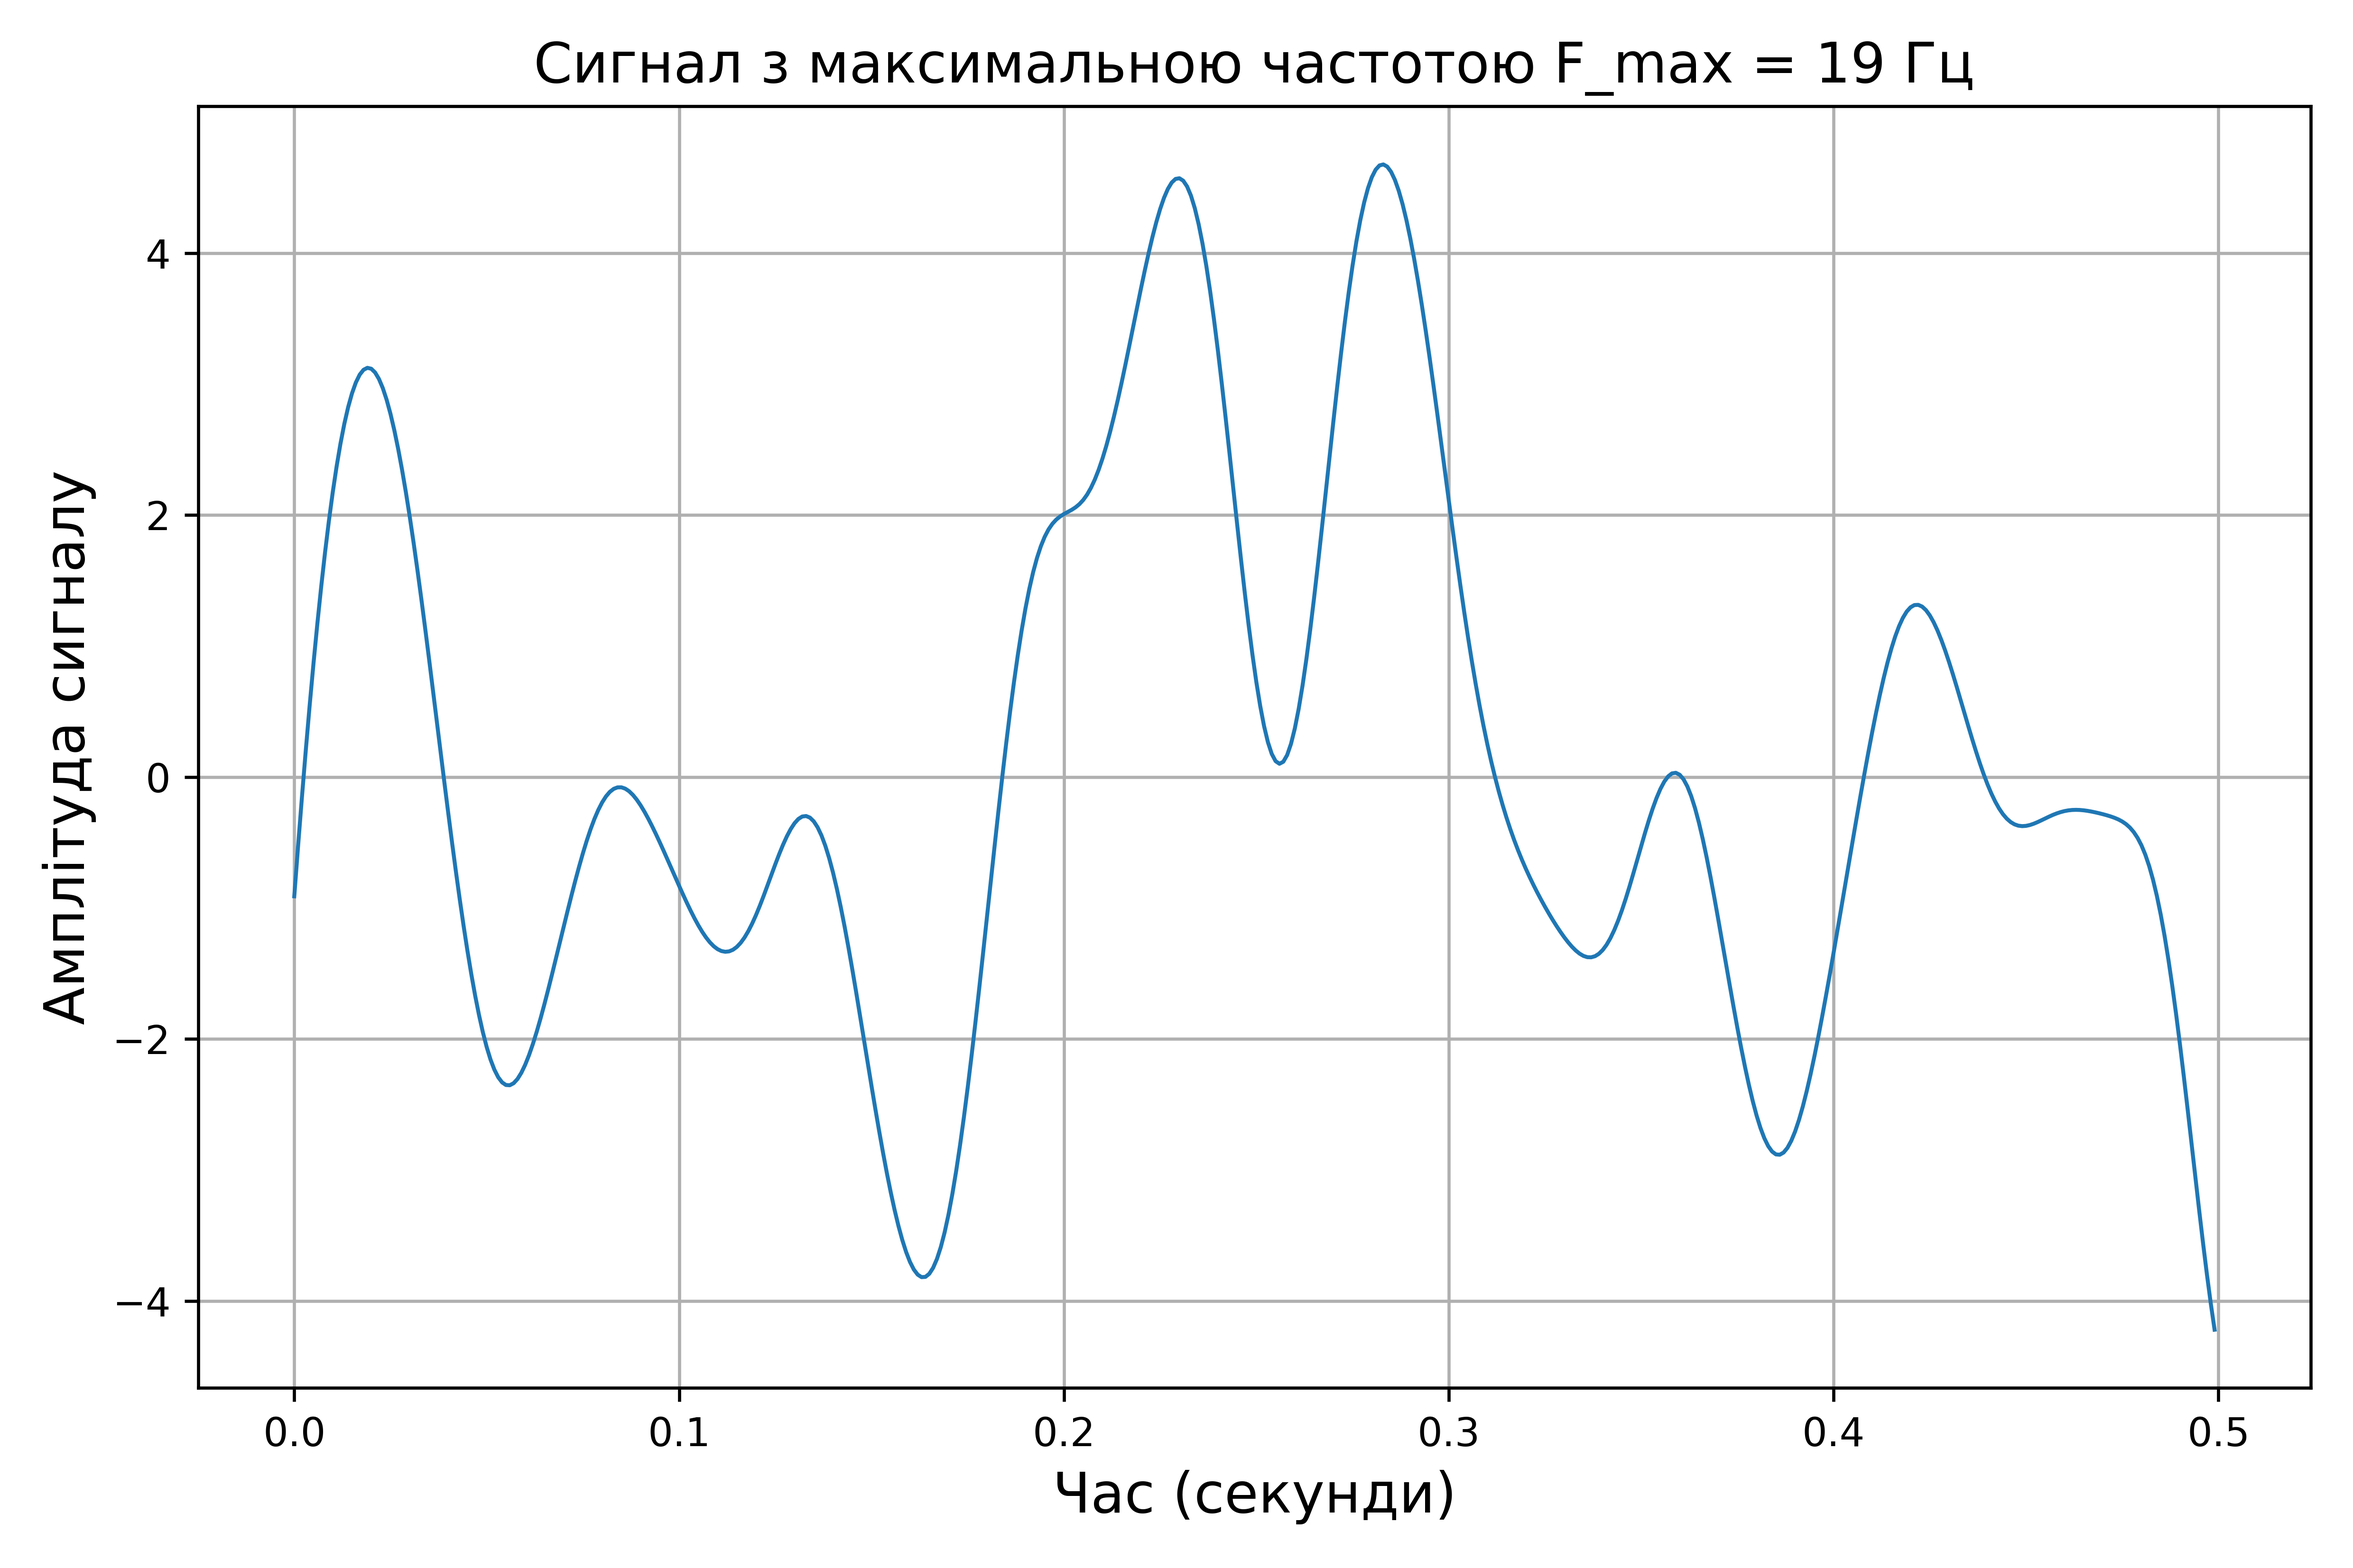
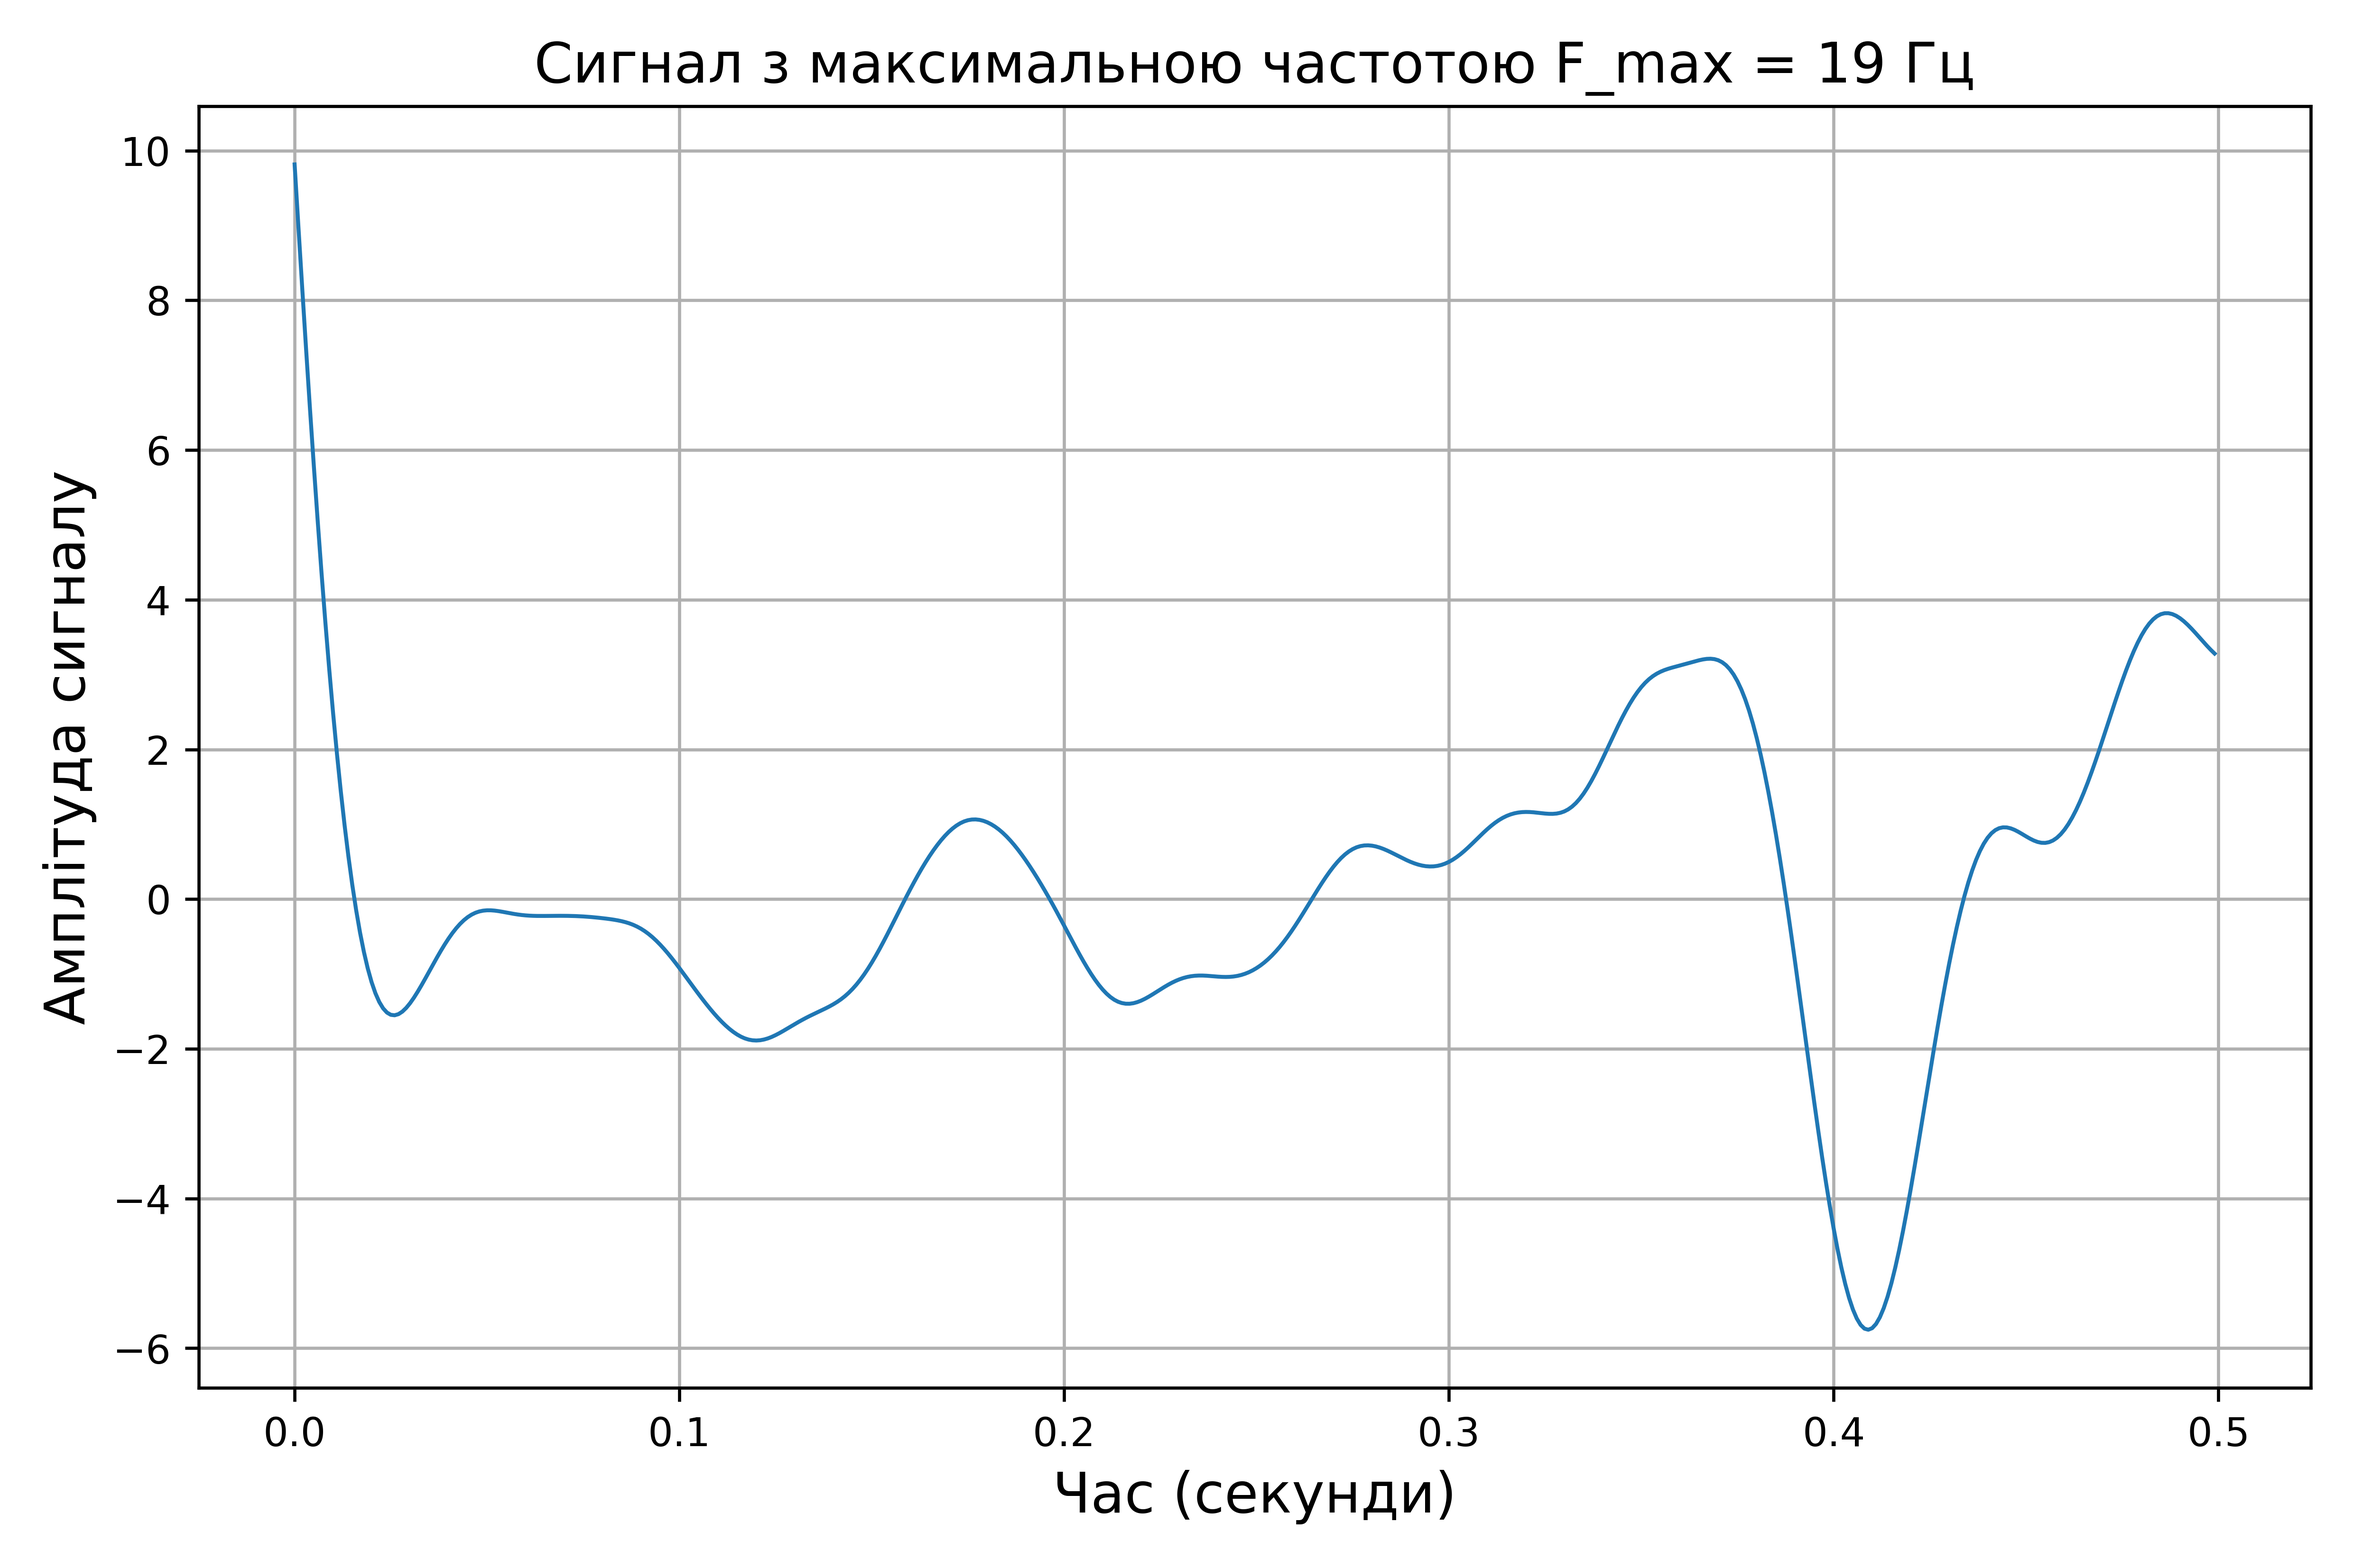
signalprocessing 2-nd  stage

diff --git a/SignalProcessing.py b/SignalProcessing.py
@@ -27,19 +27,39 @@ def plot_graph(x, y, title, xlabel, ylabel, filename):
     plt.show()
 
 
+def plot_subplots(x, y_list, title, xlabel, ylabel, filenamesave, dt_values):
+    fig, ax = plt.subplots(2, 2, figsize=(21 / 2.54, 14 / 2.54))
+    s = 0
+
+    for i in range(2):
+        for j in range(2):
+            ax[i][j].plot(x, y_list[s], linewidth=1)
+            ax[i][j].set_title(f"Dt = {dt_values[s]}", fontsize=14)
+            ax[i][j].grid(True)
+            s += 1
+
+    fig.supxlabel(xlabel, fontsize=14)
+    fig.supylabel(ylabel, fontsize=14)
+    fig.suptitle(title, fontsize=14)
+    fig.tight_layout()
+    fig.savefig(filenamesave, dpi=600)
+    plt.show()
+
+
 if __name__ == "__main__":
-    # Вариант 9
+    # Варіант 9
     n = 500
     Fs = 1000
     F_max = 19
+    F_filter = 26
+    Dt_values = [2, 4, 8, 16]
 
     if not os.path.exists("figures"):
         os.makedirs("figures")
 
-    # Генерация и фильтрация сигнала
+    # ---------------- ПР2: генерація сигналу ----------------
     time_values, filtered_signal = generate_signal(n, F_max, Fs)
 
-    # График сигнала
     plot_graph(
         time_values,
         filtered_signal,
@@ -49,15 +69,11 @@ if __name__ == "__main__":
         f"./figures/Сигнал_Fmax_{F_max}Гц.png"
     )
 
-    # Расчет спектра
     spectrum = fft.fft(filtered_signal)
     spectrum_abs = np.abs(fft.fftshift(spectrum))
-
-    # Частотная ось
     freq = fft.fftfreq(n, d=1 / Fs)
     freq_shifted = fft.fftshift(freq)
 
-    # График спектра
     plot_graph(
         freq_shifted,
         spectrum_abs,
@@ -65,4 +81,93 @@ if __name__ == "__main__":
         "Частота (Гц)",
         "Амплітуда спектру",
         f"./figures/Спектр_Fmax_{F_max}Гц.png"
+    )
+
+    # ---------------- ПР3 ----------------
+    discrete_signals = []
+    discrete_spectrums = []
+    restored_signals = []
+    variances = []
+    snr_ratios = []
+
+    for Dt in Dt_values:
+        # Дискретизація сигналу
+        discrete_signal = np.zeros(n)
+
+        for i in range(0, round(n / Dt)):
+            index = i * Dt
+            if index < n:
+                discrete_signal[index] = filtered_signal[index]
+
+        discrete_signals.append(discrete_signal.tolist())
+
+        # Спектр дискретизованого сигналу
+        discrete_spectrum = np.abs(fft.fftshift(fft.fft(discrete_signal)))
+        discrete_spectrums.append(discrete_spectrum.tolist())
+
+        # Відновлення сигналу через ФНЧ
+        w_restore = F_filter / (Fs / 2)
+        restore_filter = signal.butter(3, w_restore, 'low', output='sos')
+        restored_signal = signal.sosfiltfilt(restore_filter, discrete_signal)
+        restored_signals.append(restored_signal.tolist())
+
+        # Дисперсія та співвідношення сигнал-шум
+        E1 = restored_signal - filtered_signal
+        variance_error = np.var(E1)
+        snr = np.var(filtered_signal) / variance_error
+
+        variances.append(variance_error)
+        snr_ratios.append(snr)
+
+    # Графік дискретизованих сигналів
+    plot_subplots(
+        time_values,
+        discrete_signals,
+        "Сигнали з кроком дискретизації Dt = (2, 4, 8, 16)",
+        "Час (секунди)",
+        "Амплітуда сигналу",
+        "./figures/Дискретизовані сигнали.png",
+        Dt_values
+    )
+
+    # Графік спектрів дискретизованих сигналів
+    plot_subplots(
+        freq_shifted,
+        discrete_spectrums,
+        "Спектри сигналів з кроком дискретизації Dt = (2, 4, 8, 16)",
+        "Частота (Гц)",
+        "Амплітуда спектру",
+        "./figures/Спектри дискретизованих сигналів.png",
+        Dt_values
+    )
+
+    # Графік відновлених сигналів
+    plot_subplots(
+        time_values,
+        restored_signals,
+        "Відновлені аналогові сигнали з кроком дискретизації Dt = (2, 4, 8, 16)",
+        "Час (секунди)",
+        "Амплітуда сигналу",
+        "./figures/Відновлені сигнали.png",
+        Dt_values
+    )
+
+    # Графік дисперсії
+    plot_graph(
+        Dt_values,
+        variances,
+        "Залежність дисперсії від кроку дискретизації",
+        "Крок дискретизації",
+        "Дисперсія",
+        "./figures/Дисперсія від кроку дискретизації.png"
+    )
+
+    # Графік співвідношення сигнал-шум
+    plot_graph(
+        Dt_values,
+        snr_ratios,
+        "Залежність співвідношення сигнал-шум від кроку дискретизації",
+        "Крок дискретизації",
+        "ССШ",
+        "./figures/ССШ від кроку дискретизації.png"
     )
